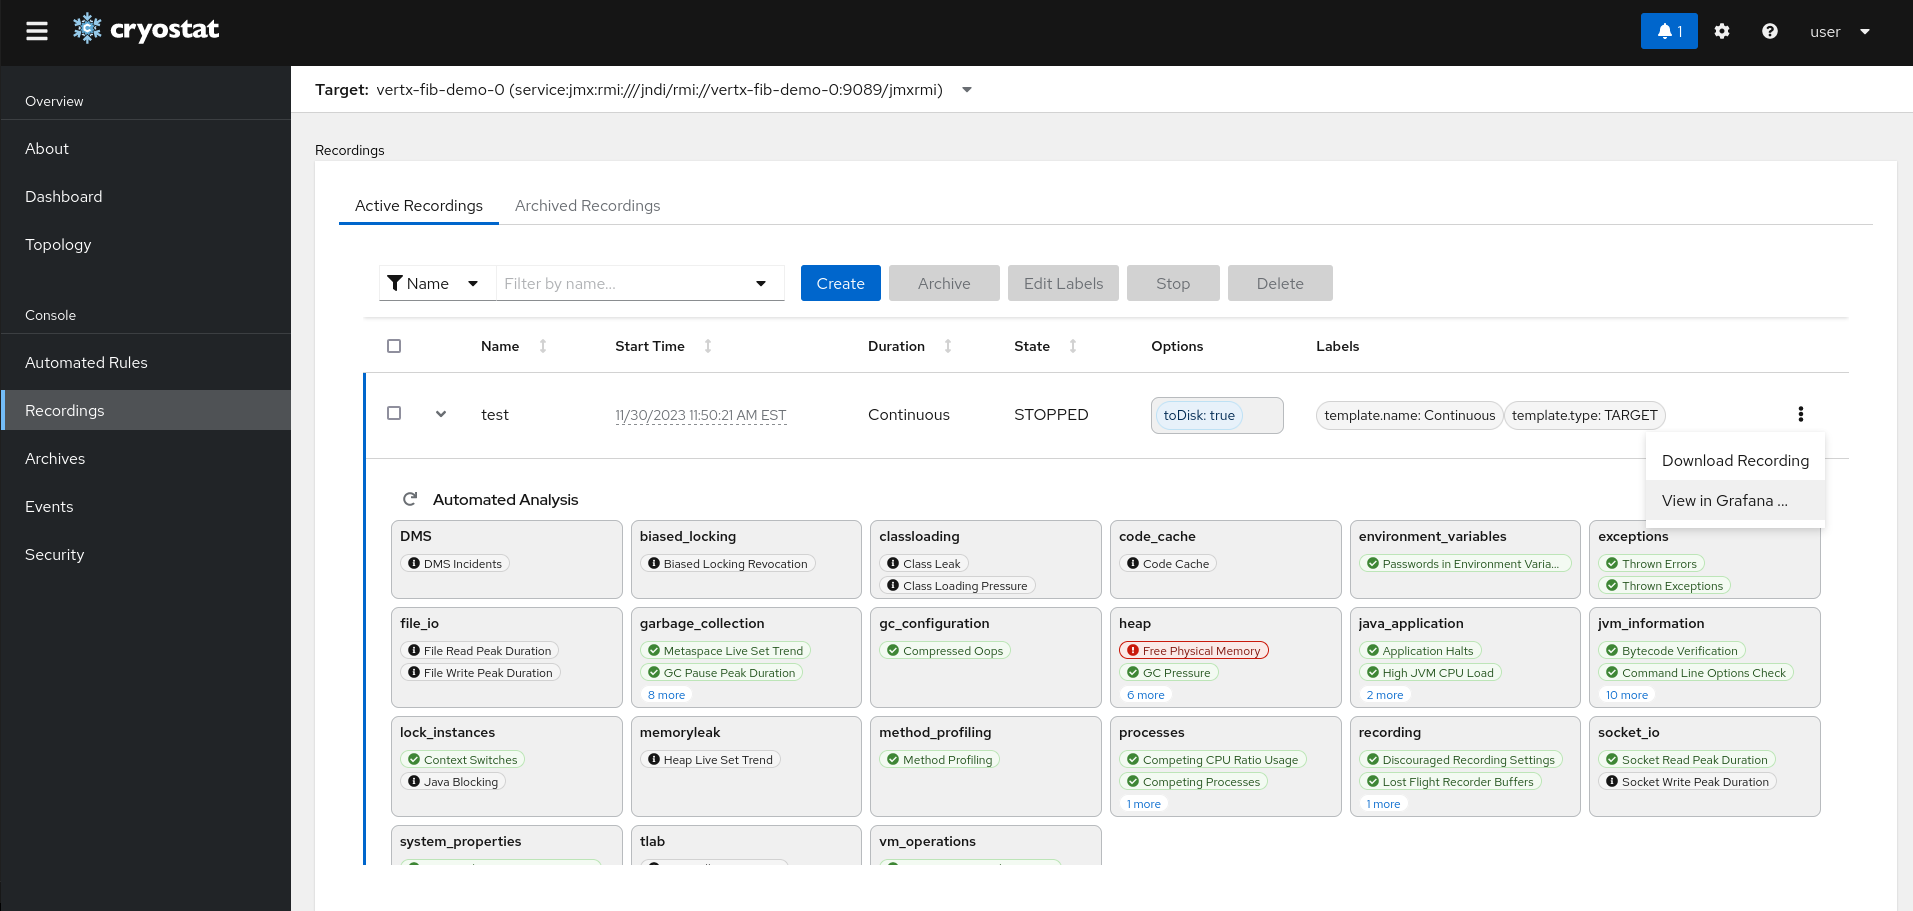
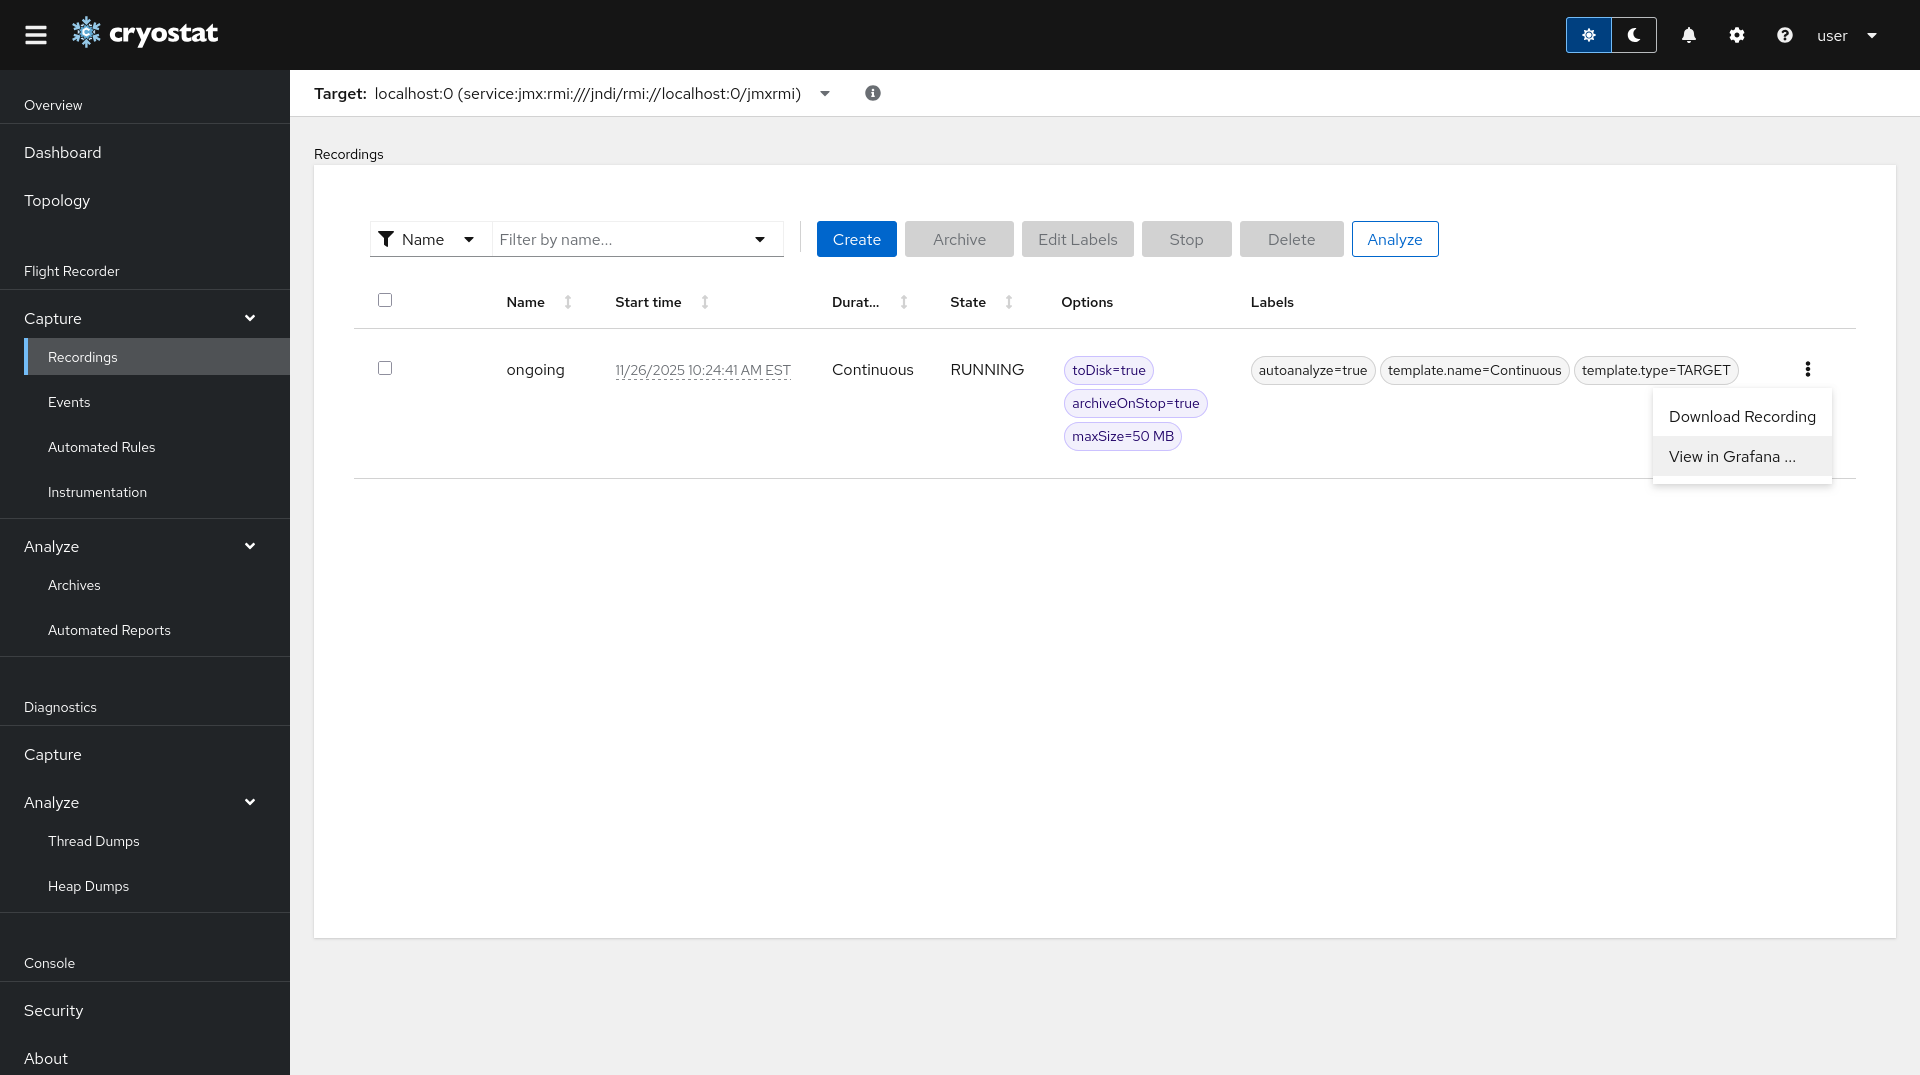
grafana

diff --git a/guides/_subsections/common/navigate-to-dashboard.md b/guides/_subsections/common/navigate-to-dashboard.md
@@ -2,7 +2,7 @@
  The <b>Cryostat</b> <i>Dashboard</i> provides a high-level overview of the state of your <b>Cryostat</b> instance and the target <b>JVM</b> applications it is monitoring.
 {% endcapture %}
 {% include howto_step.html
-  summary="Navigate to <i>Dashboard</i>"
+  summary="Navigate to <i>Overview/Dashboard</i>"
   image-name="4.1.0/navigate-to-dashboard.png"
   caption="Add <code>dashboard cards</code>, switch between <code>dashboard layouts</code>, and modify the <code>layout configuration</code> to suit your needs."
   text=navigate-to-dashboard-include-text

diff --git a/guides/_subsections/common/navigate-to-topology.md b/guides/_subsections/common/navigate-to-topology.md
@@ -2,7 +2,7 @@
   When you need to view or perform actions on multiple <code>target</code> <b>JVMs</b> at the same time, <i>Topology View</i> is the way.
 {% endcapture %}
 {% include howto_step.html
-  summary="Navigate to <i>Topology</i>"
+  summary="Navigate to <i>Overview/Topology</i>"
   image-name="4.1.0/navigate-to-topology.png"
   caption="Use the bottom <i>Control Bar</i> to adjust the <i>Graph View</i> as needed."
   text=navigate-to-topology-include-text

diff --git a/guides/_subsections/common/navigate-to-recordings.md b/guides/_subsections/common/navigate-to-recordings.md
@@ -9,7 +9,7 @@
   {{ include.additional-content }}
 {% endcapture %}
 {% include howto_step.html
-  summary="Navigate to <i>Recordings</i>"
+  summary="Navigate to <i>Flight Recorder/Capture/Recordings</i>"
   image-name="4.1.0/navigate-to-recordings-1.png"
   caption="
     Supply <b>JMX</b> credentials to authenticate to the <code>target</code>, if necessary. If
